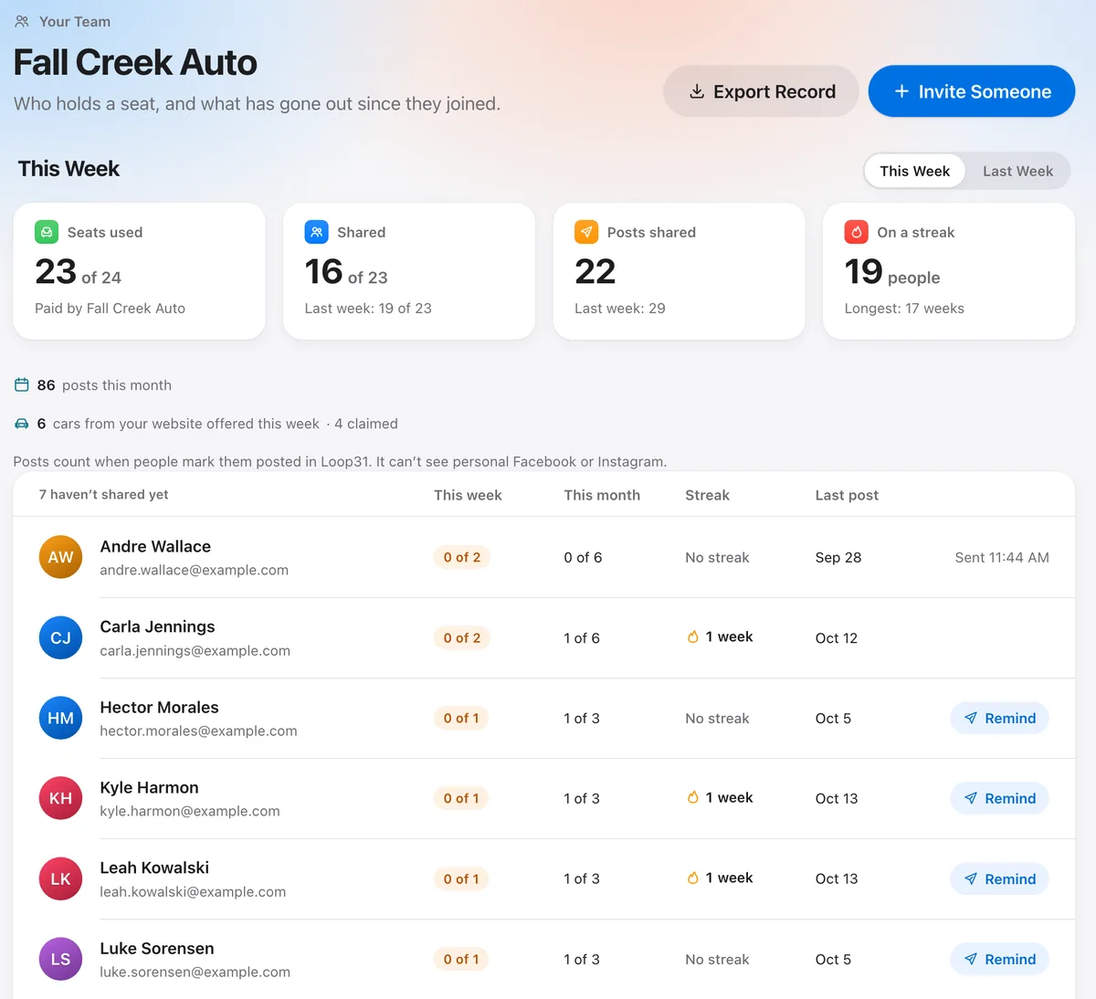
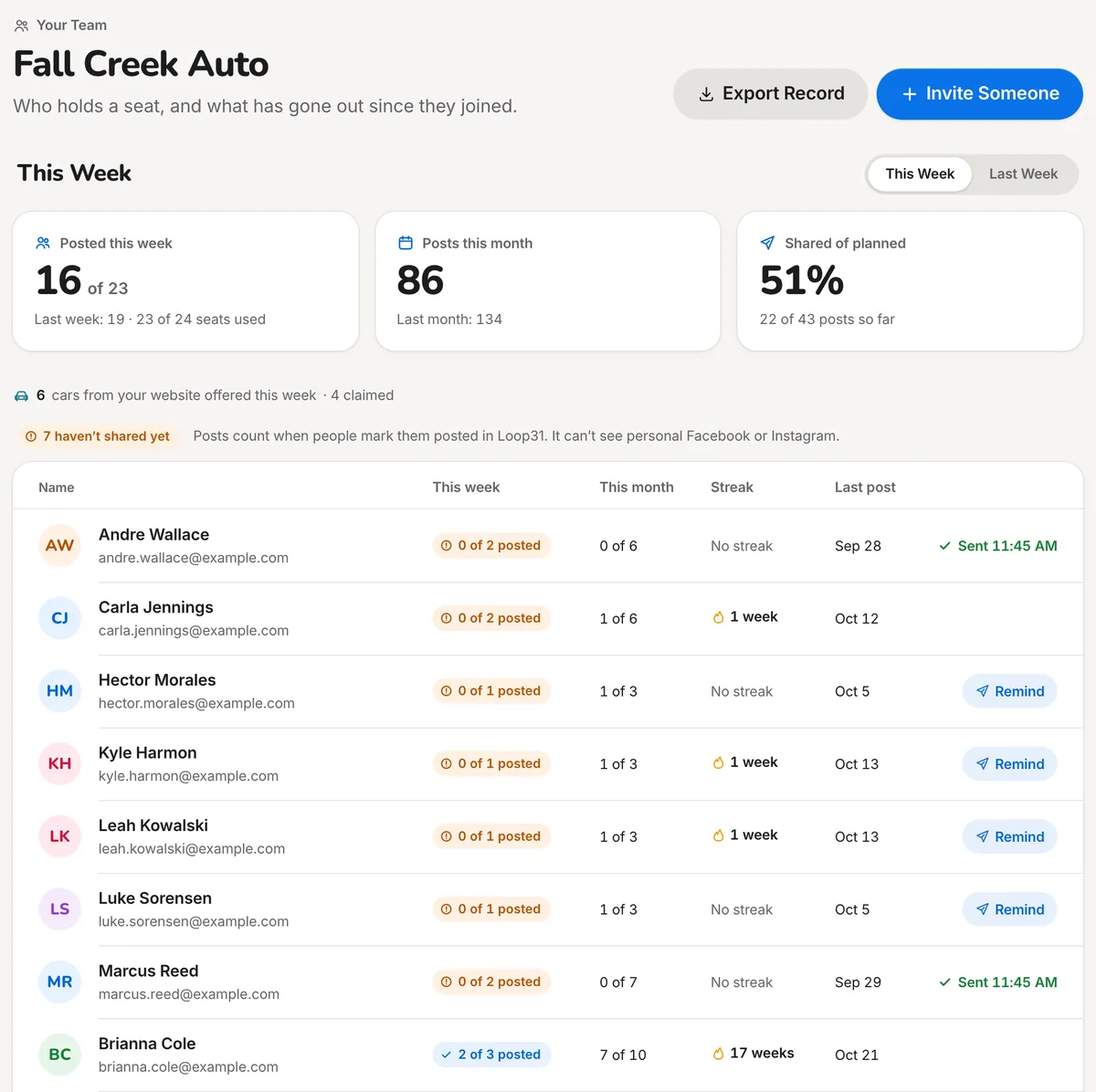
Pictures: the app's picture-first look and the portal's new look
The three app screens are reshot from integration/2026-10-23-b2b on the iPhone 17 Pro
simulator with a full status bar: the Week tab, Check posts (Skip and Looks good) and
Share. The ten portal pictures are reshot from the portal's sample mode in its D63 look:
Team leads with its three numbers, then the people who haven't shared and the first who
has; the phone check-record files come from the page at 560 px so every line is whole.
Alt text and captions say what the pictures now show (Week, Check posts, Looks good,
Share, the new numbers), and each picture's declared size matches its file.

tools/shoot-portal.mjs shoots the portal's sample pages (light, 2x, clock at 1:45 PM so
the sample reminder reads as a morning one); tools/make-screens.py takes 17 Pro shots and
crops the portal shots into every portal-*.webp. README says how.

Claude-Session: https://claude.ai/code/session_01AXbPyPAeU2G1TUf4xk7yKo

diff --git a/index.html b/index.html
@@ -55,9 +55,9 @@
         <div class="board-art">
           <span class="sample-tag">Sample store</span>
           <picture>
-            <source media="(max-width: 700px)" srcset="/img/portal-board-dealer-phone.webp" width="680" height="635">
-            <img src="/img/portal-board-dealer.webp" width="1200" height="1094" fetchpriority="high"
-              alt="Sample store. The Loop31 team portal for a made-up dealership, Fall Creek Auto, this week: 23 of 24 seats used, 16 of 23 people shared, 22 posts shared, 19 people on a streak, 86 posts this month, and 6 cars from the website offered. Below it, the salespeople who haven’t shared yet, each with this week and this month as posted of planned, such as 0 of 2 and 1 of 3, their streak, their last post, and either a Remind button or the time a reminder was sent.">
+            <source media="(max-width: 700px)" srcset="/img/portal-board-dealer-phone.webp" width="680" height="614">
+            <img src="/img/portal-board-dealer.webp" width="1200" height="1196" fetchpriority="high"
+              alt="Sample store. The Loop31 team portal for a made-up dealership, Fall Creek Auto, this week: 16 of 23 people posted (19 last week, 23 of 24 seats used), 86 posts this month (134 last month), 51% of planned posts shared (22 of 43 so far), and 6 cars from the website offered, 4 claimed. Below it, each salesperson with this week and this month as posted of planned, the 7 who haven’t shared yet first, such as 0 of 2 posted and 1 of 3, their streak, their last post, and either a Remind button or the time a reminder was sent.">
           </picture>
         </div>
         <figcaption>The team portal for a made-up store: who posted this week and this month, and a reminder for anyone with a post due today.</figcaption>
@@ -117,17 +117,17 @@
         </li>
         <li>
           <div class="step-pic">
-            <img class="screen" src="/img/screen-lookover.webp" width="840" height="1825" loading="lazy"
-              alt="The app’s look-over, post 1 of 4: a Client Reviews post for Monday at 8:00 AM, shown as it will look, with Skip, Edit and Looks Good buttons.">
+            <img class="screen" src="/img/screen-lookover.webp" width="840" height="1826" loading="lazy"
+              alt="The app’s Check posts, post 1 of 4: a Client Reviews post for Monday at 8:00 AM, shown as it will look, with Edit words, and Skip and Looks good buttons.">
           </div>
           <span class="step-n" aria-hidden="true">2</span>
           <h3>They look them over.</h3>
-          <p>Looks Good, Skip or Edit on each post, designed to take about a minute a week. Nothing goes out that they haven’t seen.</p>
+          <p>Looks good or Skip on each post, or Edit words, designed to take about a minute a week. Nothing goes out that they haven’t seen.</p>
         </li>
         <li>
           <div class="step-pic">
-            <img class="screen" src="/img/screen-handoff.webp" width="840" height="1825" loading="lazy"
-              alt="The app’s share screen for “3 things to fix before you list”: Caption copied and Your brokerage info is added, both checked, and a button to share to Facebook.">
+            <img class="screen" src="/img/screen-handoff.webp" width="840" height="1826" loading="lazy"
+              alt="The app’s Share screen for “3 things to fix before you list”, Thursday at 9:30 AM: the post’s picture, Caption copied, the three steps Share, Paste and Post, and a Share button.">
           </div>
           <span class="step-n" aria-hidden="true">3</span>
           <h3>They share from their own accounts.</h3>
@@ -175,8 +175,8 @@
         <div class="board-art">
           <span class="sample-tag">Sample store</span>
           <picture>
-            <source media="(max-width: 700px)" srcset="/img/portal-person-numbers-phone.webp" width="680" height="218">
-            <img src="/img/portal-person-numbers.webp" width="1200" height="414" loading="lazy"
+            <source media="(max-width: 700px)" srcset="/img/portal-person-numbers-phone.webp" width="680" height="228">
+            <img src="/img/portal-person-numbers.webp" width="1200" height="438" loading="lazy"
               alt="Sample store. One salesperson’s page in the portal, for a made-up Mike Alvarez at Fall Creek Auto: this week 2 of 3, marked posted of planned; this month 6 of 10, with the three months before; a 17-week streak; last post October 21; and “Nothing due today”.">
           </picture>
         </div>
@@ -225,8 +225,8 @@
         <div class="board-art">
           <span class="sample-tag">Sample store</span>
           <picture>
-            <source media="(max-width: 700px)" srcset="/img/portal-check-record-phone.webp" width="680" height="457">
-            <img src="/img/portal-check-record.webp" width="1200" height="747" loading="lazy"
+            <source media="(max-width: 700px)" srcset="/img/portal-check-record-phone.webp" width="680" height="629">
+            <img src="/img/portal-check-record.webp" width="1200" height="744" loading="lazy"
               alt="Sample store. Posts that went out for one made-up salesperson, newest first: “Detail day on the lot”, “Friday night at Fall Creek High” and “First car for Jordan”, each with its date, Loop, places and caption, and under each “Checked when shared: business name, payment terms. Nothing flagged.”">
           </picture>
         </div>

diff --git a/for-salespeople/index.html b/for-salespeople/index.html
@@ -49,8 +49,8 @@
       </div>
 
       <div class="hero-art">
-        <img class="screen hero-screen" src="/img/screen-calendar.webp" width="840" height="1825" fetchpriority="high"
-          alt="Loop31’s Calendar tab, the week of October 12: a client review posted Monday, “3 things to fix before you list” and “Saturday showing marathon” on Thursday, and an open house on Saturday, each with the time you post it. A card says next week is ready for a quick look.">
+        <img class="screen hero-screen" src="/img/screen-calendar.webp" width="840" height="1826" fetchpriority="high"
+          alt="Loop31’s Week tab, the week of October 12: a client review posted Monday, and “3 things to fix before you list” and “Saturday showing marathon” ready for Thursday, each with the time you post it. A card says 4 posts are ready, with Check posts.">
         <img class="post-card hero-post" src="/img/post-re-tips.webp" width="640" height="800"
           alt="An example Home Tips post, as the app draws it: water spraying from a brass pipe, the words “A pipe just burst. Where’s your shutoff?”, and “Jess Rivera · Northline Realty · (317) 555-0142” along the bottom.">
       </div>
@@ -192,13 +192,13 @@
       </div>
       <div class="how-shots">
         <figure class="shot">
-          <img class="screen" src="/img/screen-lookover.webp" width="840" height="1825" loading="lazy"
-            alt="The look-over, post 1 of 4: a Client Reviews post for Monday at 8:00 AM, shown the way it will look, with Skip, Edit and Looks Good buttons.">
-          <figcaption>Looking over next week’s posts takes about a minute. Tap Looks Good, Skip, or Edit on each one.</figcaption>
+          <img class="screen" src="/img/screen-lookover.webp" width="840" height="1826" loading="lazy"
+            alt="Check posts, post 1 of 4: a Client Reviews post for Monday at 8:00 AM, shown the way it will look, with Edit words, and Skip and Looks good buttons.">
+          <figcaption>Checking next week’s posts takes about a minute. Tap Looks good or Skip on each one, or Edit words.</figcaption>
         </figure>
         <figure class="shot">
-          <img class="screen" src="/img/screen-handoff.webp" width="840" height="1825" loading="lazy"
-            alt="Post It Yourself for “3 things to fix before you list”: Caption copied and Your brokerage info is added are both checked, with a button to share to the Jess Rivera Homes Facebook Page.">
+          <img class="screen" src="/img/screen-handoff.webp" width="840" height="1826" loading="lazy"
+            alt="The app’s Share screen for “3 things to fix before you list”, Thursday at 9:30 AM: the post’s picture, Caption copied, the three steps Share, Paste and Post, and a Share button.">
           <figcaption>When it’s time, your iPhone reminds you. The caption is already copied, so sharing takes about 20 seconds.</figcaption>
         </figure>
       </div>
@@ -251,9 +251,9 @@
       <figure class="portal-shot">
         <span class="sample-tag">Sample office</span>
         <picture>
-          <source media="(max-width: 700px)" srcset="/img/portal-board-realty-phone.webp" width="680" height="468">
-          <img src="/img/portal-board-realty.webp" width="1200" height="964" loading="lazy"
-            alt="Sample office. The Loop31 team portal for a made-up brokerage, Northline Realty, this week: seats used, who shared, posts shared and people on a streak, then each agent with this week and this month as posted of planned.">
+          <source media="(max-width: 700px)" srcset="/img/portal-board-realty-phone.webp" width="680" height="473">
+          <img src="/img/portal-board-realty.webp" width="1200" height="996" loading="lazy"
+            alt="Sample office. The Loop31 team portal for a made-up brokerage, Northline Realty, this week: agents who posted, posts this month and planned posts shared, then each agent with this week and this month as posted of planned.">
         </picture>
       </figure>
     </div>

diff --git a/teams/dealerships/index.html b/teams/dealerships/index.html
@@ -106,9 +106,9 @@
         <div class="board-art">
           <span class="sample-tag">Sample store</span>
           <picture>
-            <source media="(max-width: 700px)" srcset="/img/portal-board-dealer-phone.webp" width="680" height="635">
-            <img src="/img/portal-board-dealer.webp" width="1200" height="1094" loading="lazy"
-              alt="Sample store. The Loop31 team portal for a made-up dealership, Fall Creek Auto, this week: 23 of 24 seats used, 16 of 23 people shared, 22 posts shared, 19 people on a streak, 86 posts this month, and 6 cars from the website offered, 4 claimed. Below it, the salespeople who haven’t shared yet, each with this week and this month as posted of planned, their streak, their last post, and either a Remind button or the time a reminder was sent.">
+            <source media="(max-width: 700px)" srcset="/img/portal-board-dealer-phone.webp" width="680" height="614">
+            <img src="/img/portal-board-dealer.webp" width="1200" height="1196" loading="lazy"
+              alt="Sample store. The Loop31 team portal for a made-up dealership, Fall Creek Auto, this week: 16 of 23 people posted (19 last week, 23 of 24 seats used), 86 posts this month (134 last month), 51% of planned posts shared (22 of 43 so far), and 6 cars from the website offered, 4 claimed. Below it, each salesperson with this week and this month as posted of planned, the 7 who haven’t shared yet first, their streak, their last post, and either a Remind button or the time a reminder was sent.">
           </picture>
         </div>
         <figcaption>The Team page for a made-up store and made-up salespeople. Counts are what people mark as posted; Loop31 can’t see personal Facebook or Instagram.</figcaption>
@@ -150,8 +150,8 @@
           <div class="board-art">
             <span class="sample-tag">Sample store</span>
             <picture>
-              <source media="(max-width: 700px)" srcset="/img/portal-check-record-phone.webp" width="680" height="465">
-              <img src="/img/portal-check-record.webp" width="1200" height="747" loading="lazy"
+              <source media="(max-width: 700px)" srcset="/img/portal-check-record-phone.webp" width="680" height="629">
+              <img src="/img/portal-check-record.webp" width="1200" height="744" loading="lazy"
                 alt="Sample store. Posts that went out for one made-up salesperson, each with its date, Loop, places and caption, and under each “Checked when shared: business name, payment terms. Nothing flagged.”">
             </picture>
           </div>

diff --git a/teams/brokerages/index.html b/teams/brokerages/index.html
@@ -102,9 +102,9 @@
         <div class="board-art">
           <span class="sample-tag">Sample office</span>
           <picture>
-            <source media="(max-width: 700px)" srcset="/img/portal-board-realty-phone.webp" width="680" height="468">
-            <img src="/img/portal-board-realty.webp" width="1200" height="964" loading="lazy"
-              alt="Sample office. The Loop31 team portal for a made-up brokerage, Northline Realty, this week: 10 of 12 seats used, 6 of 10 agents shared, 9 posts shared, 7 people on a streak, 35 posts this month. Below it, the agents who haven’t shared yet, each with this week and this month as posted of planned, their streak, their last post, and either a Remind button or the time a reminder was sent.">
+            <source media="(max-width: 700px)" srcset="/img/portal-board-realty-phone.webp" width="680" height="473">
+            <img src="/img/portal-board-realty.webp" width="1200" height="996" loading="lazy"
+              alt="Sample office. The Loop31 team portal for a made-up brokerage, Northline Realty, this week: 6 of 10 agents posted (7 last week, 10 of 12 seats used), 35 posts this month (55 last month), and 47% of planned posts shared (9 of 19 so far). Below it, each agent with this week and this month as posted of planned, the 4 who haven’t shared yet first, their streak, their last post, and either a Remind button or the time a reminder was sent.">
           </picture>
         </div>
         <figcaption>The Team page for a made-up brokerage and made-up agents. Counts are what agents mark as posted; Loop31 can’t see personal Facebook or Instagram.</figcaption>
@@ -143,8 +143,8 @@
           <div class="board-art">
             <span class="sample-tag">Sample office</span>
             <picture>
-              <source media="(max-width: 700px)" srcset="/img/portal-check-record-realty-phone.webp" width="680" height="471">
-              <img src="/img/portal-check-record-realty.webp" width="1200" height="498" loading="lazy"
+              <source media="(max-width: 700px)" srcset="/img/portal-check-record-realty-phone.webp" width="680" height="731">
+              <img src="/img/portal-check-record-realty.webp" width="1200" height="500" loading="lazy"
                 alt="Sample office. Two posts that went out for a made-up agent, each with its date, Loop, places and caption, and under each “Checked when shared: business name, fair housing wording, payment terms. Nothing flagged.”">
             </picture>
           </div>

diff --git a/tools/make-screens.py b/tools/make-screens.py
@@ -1,15 +1,18 @@
-"""Turns the simulator's 1320 x 2868 screenshots into the home page's screen images, img/<role>.webp.
+"""Turns the simulator's screenshots and the portal's sample shots into the site's pictures, img/<role>.webp.
 
     python3 -I tools/make-screens.py <shots-folder> [<portal-shots-folder>]
 
-The roles and the files they come from are in ROLES below. After a reshoot, put the new PNGs in a folder
-under the same names (or change ROLES) and run this again; the page needs no change.
+The app shots are from the iPhone 17 Pro simulator (1206 x 2622), taken with the app's own script and a full
+status bar (see the README, "Making them again"); 1320 x 2868 shots from an iPhone 17 Pro Max work too. The
+portal shots are what tools/shoot-portal.mjs writes. The roles and the files they come from are in ROLES and
+PORTAL below. After a reshoot, put the new PNGs in a folder under the same names (or change ROLES) and run
+this again; the pages need no change unless a picture's size or contents do.
 
 For each app screen it:
   * paints over the Dynamic Island with the background around it (the page shows the screen on its own,
     not a phone), and
-  * draws full signal bars where the simulator shows four "no service" dots (Apple asks for a full status
-    bar). The time, Wi-Fi and battery are left as they were shot.
+  * on a shot with the simulator's four "no service" dots (no status bar override), draws full signal bars
+    there (Apple asks for a full status bar). The time, Wi-Fi and battery are left as they were shot.
 Then it scales the screen to SCREEN_WIDTH and saves it as WebP. Rounded corners and the shadow are CSS.
 """
 
@@ -23,31 +26,39 @@ OUT = SITE / "img"
 
 # role: (file in the shots folder, crop box at full size or None)
 ROLES = {
-    "screen-calendar": ("calendar.png", None),
-    "screen-lookover": ("review.png", None),
-    "screen-handoff": ("more/handoff-w1.png", None),
+    "screen-calendar": ("calendar.png", None),  # the Week tab
+    "screen-lookover": ("review.png", None),  # Check posts, card 1
+    "screen-handoff": ("handoff-w1.png", None),  # Share
 }
-# role: (file in the portal shots folder, crop box or None, width)
+# role: (file in the portal shots folder, crop box in CSS px (the shots are 2x), width)
 PORTAL = {
-    "portal-team": ("team-1440-light.png", (0, 0, 1440, 900), 1200),
-    "portal-team-phone": ("team-390-light.png", (0, 0, 780, 1300), 640),
-    # A person's page: their Loops (read only) and the posts that went out.
-    "portal-person": ("person-1440-light.png", (0, 0, 1440, 900), 1200),
-    "portal-person-phone": ("person-390-light.png", (0, 0, 780, 1300), 640),
-    # The Team page's counts and people, without the office's name (the dealership page uses it: the
-    # sample office is a brokerage).
-    "portal-team-table": ("team-1440-light.png", (350, 160, 1356, 900), 1000),
-    "portal-team-table-phone": ("team-390-light.png", (0, 620, 780, 1688), 640),
+    # Team: the title, the three numbers, the cars line, the people who haven't shared and the first who has.
+    "portal-board-dealer": ("d-week.png", (336, 26, 1360, 1047), 1200),
+    "portal-board-realty": ("p-week.png", (336, 26, 1360, 876), 1200),
+    # Phones: the same people, with this week and this month.
+    "portal-board-dealer-phone": ("d-week.png", (340, 458, 992, 1047), 680),
+    "portal-board-realty-phone": ("p-week.png", (340, 422, 992, 876), 680),
+    # A person's page: the name and the four numbers; the phone file is the first two numbers.
+    "portal-person-numbers": ("d-person.png", (336, 12, 1360, 386), 1200),
+    "portal-person-numbers-phone": ("d-person.png", (338, 212, 850, 384), 680),
+    # Posts That Went Out, with what the checks said; the phone files from the page at 560 px, so each line is whole.
+    "portal-check-record": ("d-person.png", (340, 851, 1356, 1481), 1200),
+    "portal-check-record-phone": ("d-person-560.png", (8, 1254, 552, 1757), 680),
+    "portal-check-record-realty": ("p-person.png", (340, 879, 1356, 1302), 1200),
+    "portal-check-record-realty-phone": ("p-person-560.png", (8, 1282, 552, 1867), 680),
 }
 
 SCREEN_WIDTH = 840
-QUALITY = 80
+QUALITY = 80  # app screens
+PORTAL_QUALITY = 82
 
-# Where things sit on a 1320 px wide screenshot (iPhone 17 Pro Max, 3x).
-ISLAND = (452, 28, 868, 164)  # x0, y0, x1, y1: painted from the rows just above and below
-DOTS = (924, 84, 1014, 128)  # the "no service" dots: painted from the columns either side
-BARS_RIGHT = 1003  # right edge of the signal bars
-BARS_BOTTOM = 116  # their baseline, level with the Wi-Fi glyph's bottom
+# Where things sit, by screenshot size: the island (x0, y0, x1, y1, painted from the rows just above and below)
+# and, on a 1320 px wide Pro Max shot without a status bar override, the "no service" dots (painted from the
+# columns either side) and the right edge and baseline of the signal bars drawn there.
+DEVICES = {
+    (1206, 2622): {"island": (410, 37, 796, 157)},  # iPhone 17 Pro, 3x
+    (1320, 2868): {"island": (452, 28, 868, 164), "dots": (924, 84, 1014, 128), "bars": (1003, 116)},  # 17 Pro Max
+}
 
 
 def fill_vertical(img, box):
@@ -80,7 +91,7 @@ def ink_of(img):
     return (0, 0, 0) if abs(bg - lo) > abs(bg - hi) else (255, 255, 255)
 
 
-def draw_bars(img):
+def draw_bars(img, right, bottom):
     """Four signal bars, drawn 4x large and scaled down so their edges are smooth."""
     s = 4
     widths, gap, heights, radius = 9, 5, (12, 18, 25, 32), 2.5
@@ -92,26 +103,29 @@ def draw_bars(img):
         x = i * (widths + gap) * s
         d.rounded_rectangle((x, (max(heights) - h) * s, x + widths * s - 1, max(heights) * s - 1), radius=radius * s, fill=ink)
     patch = patch.resize((total, max(heights)), Image.LANCZOS)
-    img.alpha_composite(patch, (BARS_RIGHT - total, BARS_BOTTOM - max(heights)))
+    img.alpha_composite(patch, (right - total, bottom - max(heights)))
 
 
 def screen(src, crop):
     img = Image.open(src).convert("RGBA")
-    if img.size != (1320, 2868):
-        raise SystemExit(f"{src}: expected 1320 x 2868, got {img.size[0]} x {img.size[1]}")
+    device = DEVICES.get(img.size)
+    if device is None:
+        raise SystemExit(f"{src}: {img.size[0]} x {img.size[1]} is not a size in DEVICES")
+    full_width = img.width
     if crop is None:
-        fill_vertical(img, ISLAND)
-        fill_horizontal(img, DOTS)
-        draw_bars(img)
+        fill_vertical(img, device["island"])
+        if "dots" in device:
+            fill_horizontal(img, device["dots"])
+            draw_bars(img, *device["bars"])
     else:
         img = img.crop(crop)
-    width = SCREEN_WIDTH if crop is None else round(img.width * SCREEN_WIDTH / 1320)
+    width = SCREEN_WIDTH if crop is None else round(img.width * SCREEN_WIDTH / full_width)
     return img.resize((width, round(img.height * width / img.width)), Image.LANCZOS)
 
 
-def save(img, role):
+def save(img, role, quality=QUALITY):
     path = OUT / f"{role}.webp"
-    img.convert("RGB").save(path, "WEBP", quality=QUALITY, method=6)
+    img.convert("RGB").save(path, "WEBP", quality=quality, method=6)
     print(f"img/{role}.webp  {img.width} x {img.height}  {path.stat().st_size // 1024} KB")
 
 
@@ -125,10 +139,8 @@ def main():
     if len(sys.argv) > 2:
         portal = Path(sys.argv[2])
         for role, (name, crop, width) in PORTAL.items():
-            img = Image.open(portal / name).convert("RGB")
-            if crop:
-                img = img.crop(crop)
-            save(img.resize((width, round(img.height * width / img.width)), Image.LANCZOS), role)
+            img = Image.open(portal / name).convert("RGB").crop(tuple(2 * v for v in crop))
+            save(img.resize((width, round(img.height * width / img.width)), Image.LANCZOS), role, PORTAL_QUALITY)
 
 
 if __name__ == "__main__":

diff --git a/README.md b/README.md
@@ -23,7 +23,7 @@ Since 2026-10-23 the site is written for the people who buy seats (general manag
 | `fonts/inter-latin-*.woff2`, `fonts/Inter-OFL.txt` | Inter, for reading and for every number, with its license |
 | `fonts/nunito-latin-var.woff2`, `fonts/OFL.txt` | Nunito, for headlines and the wordmark, with its license |
 | `img/` | The app screens, portal screens and example posts, named by what they show (see Images) |
-| `tools/` | Two scripts that make the images in `img/`. Not linked from any page |
+| `tools/` | The scripts that make the images in `img/`. Not linked from any page |
 | `favicon.png`, `apple-touch-icon.png`, `logo.png` | The app icon, resized from `docs/brand/generated/icon-1024.png` in the app repo |
 | `CNAME` | `loop31.com`, which tells GitHub Pages the custom domain |
 | `.nojekyll` | Tells GitHub Pages to serve the files as they are |
@@ -71,24 +71,25 @@ Every image is in `img/`, named by what it shows, so a new picture is a new file
 
 | File | What it is | Where it came from |
 |---|---|---|
-| `portal-board-dealer.webp`, `-phone.webp` | Home hero and the dealership page: the portal's Team page for the sample dealership (Fall Creek Auto), this week and this month per salesperson, Remind and "Sent" | The portal's sample mode, `?sample=this-week&office=dealer`, 1440 × 1100 at 2×, from `apps/admin` at `integration/2026-10-23-b2b` (D60), 2026-10-23; the phone file is the people table's name, this week and this month columns |
+| `portal-board-dealer.webp`, `-phone.webp` | Home hero and the dealership page: the portal's Team page for the sample dealership (Fall Creek Auto): its three numbers (posted this week, posts this month, shared of planned), the cars line, then this week and this month per salesperson, Remind and "Sent" | The portal's sample mode, `?sample=this-week&office=dealer`, 1440 × 1100 at 2×, from `apps/admin` at `integration/2026-10-23-b2b` (the D63 look), 2026-10-23; the phone file is the people table's name, this week and this month columns |
 | `portal-board-realty.webp`, `-phone.webp` | The brokerage page and the salespeople's band: the same for the sample brokerage (Northline Realty) | `?sample=this-week`, the same way |
 | `portal-person-numbers.webp`, `-phone.webp` | Home: one person's page, this week, this month, streak, last post | `?sample=person&office=dealer`, 1440 × 1900 at 2× |
-| `portal-check-record.webp`, `-phone.webp` | Home and the dealership page: posts that went out with "Checked when shared … Nothing flagged." | Same shot, lower down |
+| `portal-check-record.webp`, `-phone.webp` | Home and the dealership page: posts that went out with "Checked when shared … Nothing flagged." | Same shot, lower down; the phone file from the same page 560 px wide, so each line is whole |
 | `portal-check-record-realty.webp`, `-phone.webp` | The brokerage page: the same for a sample agent (fair housing wording checked) | `?sample=person` |
-| `screen-calendar.webp` | Salespeople's page hero: the Calendar tab | iPhone 17 Pro Max simulator, sample account, 2026-10-22 (`site-shots/calendar.png`) |
-| `screen-lookover.webp` | How it works, step 2: the look-over | Same (`site-shots/review.png`) |
-| `screen-handoff.webp` | How it works, step 3: Post It Yourself | Same (`site-shots/more/handoff-w1.png`) |
-| `portal-team.webp`, `portal-person.webp`, `portal-team-table.webp` and their `-phone` files | The old portal screens (2026-10-22), before the D60 numbers; no page uses them now | Kept for the pitch kit until it is redone |
+| `screen-calendar.webp` | Salespeople's page hero: the Week tab | iPhone 17 Pro simulator, the app's sample account, `integration/2026-10-23-b2b` (the picture-first look), 2026-10-23 (`calendar.png`) |
+| `screen-lookover.webp` | How it works, step 2: Check posts, with Skip and Looks good | Same (`review.png`) |
+| `screen-handoff.webp` | How it works, step 3: Share | Same (`handoff-w1.png`) |
+| `portal-team.webp`, `portal-person.webp`, `portal-team-table.webp` and their `-phone` files | The old portal screens (2026-10-22), before the D60 numbers; no page uses them now | Kept for the pitch kit until it is redone; the tools no longer make them |
 | `post-re-*.webp`, `post-auto-*.webp` | The ten example posts. `post-auto-tips`, `-reviews` and `-hood` are How it works, step 1 | Drawn by the app's own graphics code from each starter Loop's first idea, over its bundled example photo |
 
 **Making them again.** With Homebrew's Node 24 and Google Chrome:
 
 - `node tools/render-posts.mjs [~/code/loop31]` draws the ten posts exactly as setup step 5 does and writes `img/post-*.webp`. It only reads the app repo. Market Updates is left out on purpose: its hook is a real county number.
-- `python3 -I tools/make-screens.py <shots-folder> [<portal-shots-folder>]` turns 1320 × 2868 simulator screenshots into the `screen-*.webp` files.
-- The portal pictures: run the portal's dev server (`apps/admin`, sample mode is development only), take a headless Chrome screenshot of each `?sample=` page above at 2×, crop to the main column, and save as WebP at quality 82, 1200 px wide (680 for the phone files). The sample names and stores are made up; every picture carries a visible "Sample" tag on the page.
+- The app screens: boot the iPhone 17 Pro simulator, give it a full status bar (`xcrun simctl status_bar booted override --time 9:41 --dataNetwork wifi --wifiBars 3 --cellularMode active --cellularBars 4 --batteryState discharging --batteryLevel 100`, and `xcrun simctl status_bar booted clear` after), then from `apps/mobile` in the app repo run `SHOT_PORT=8098 NO_SETUP=1 npm run shots -- <shots-folder> /calendar /review /handoff/w1` (the app's sample account; light mode).
+- The portal shots: run the portal's dev server (`apps/admin`; sample mode is development only, see `tools/shoot-portal.mjs` for the command), then `node tools/shoot-portal.mjs <portal-shots-folder>` shoots each `?sample=` page above at 2×, light mode, with the page's clock at 1:45 PM today (so the sample's reminder reads as sent in the morning; real ones go out 9 AM to 7 PM).
+- `python3 -I tools/make-screens.py <shots-folder> [<portal-shots-folder>]` turns the simulator screenshots into the `screen-*.webp` files (840 px wide) and crops the portal shots into the `portal-*.webp` files (quality 82, 1200 px wide, 680 for the phone files). The crop boxes are in the script; check them after the portal's layout changes. The sample names and stores are made up; every picture carries a visible "Sample" tag on the page.
 
-**Still to replace.** The app screens are from the 2026-10-22 sample account and the old look (Looks Good, Post It Yourself); reshoot them after the app's new look ships (plain labels: Check posts, Share). There is no Lock Screen shot of the manager's reminder; the pages say "a reminder" and that it shows at the top of Home, and never promise a phone notification until push is on. There is no picture of the pilot summary (its sample page doesn't render in headless Chrome).
+**Still to replace.** There is no Lock Screen shot of the manager's reminder; the pages say "a reminder" and that it shows at the top of Home, and never promise a phone notification until push is on. There is no picture of the pilot summary (its sample page doesn't render in headless Chrome).
 
 ## Credits
 
